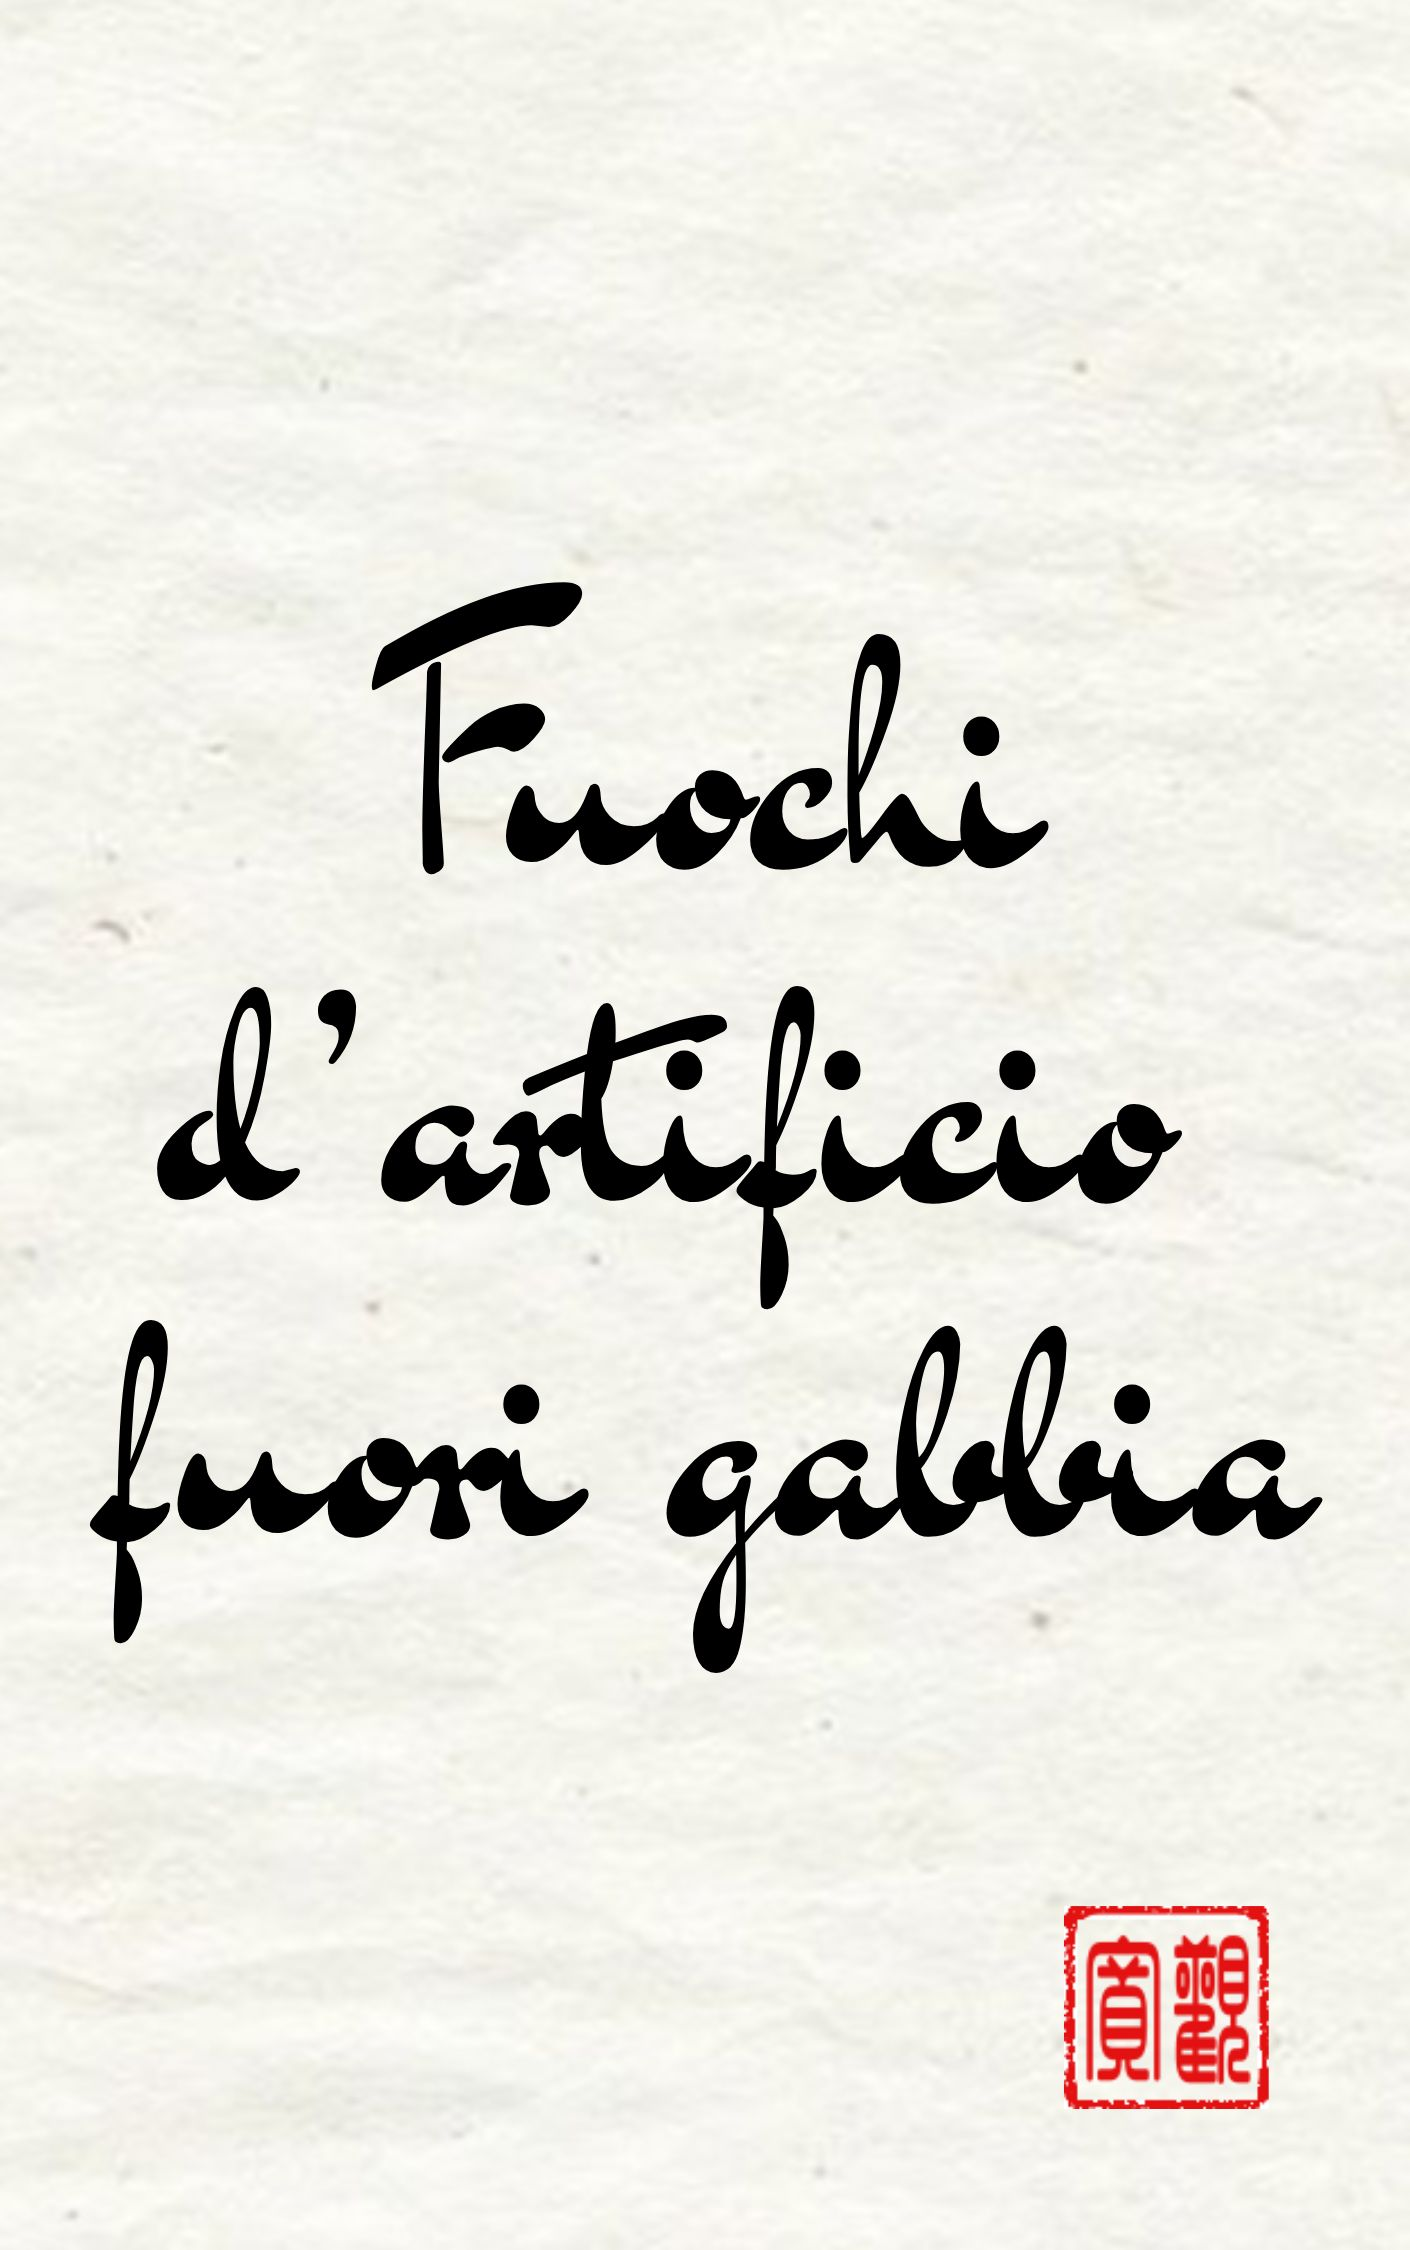
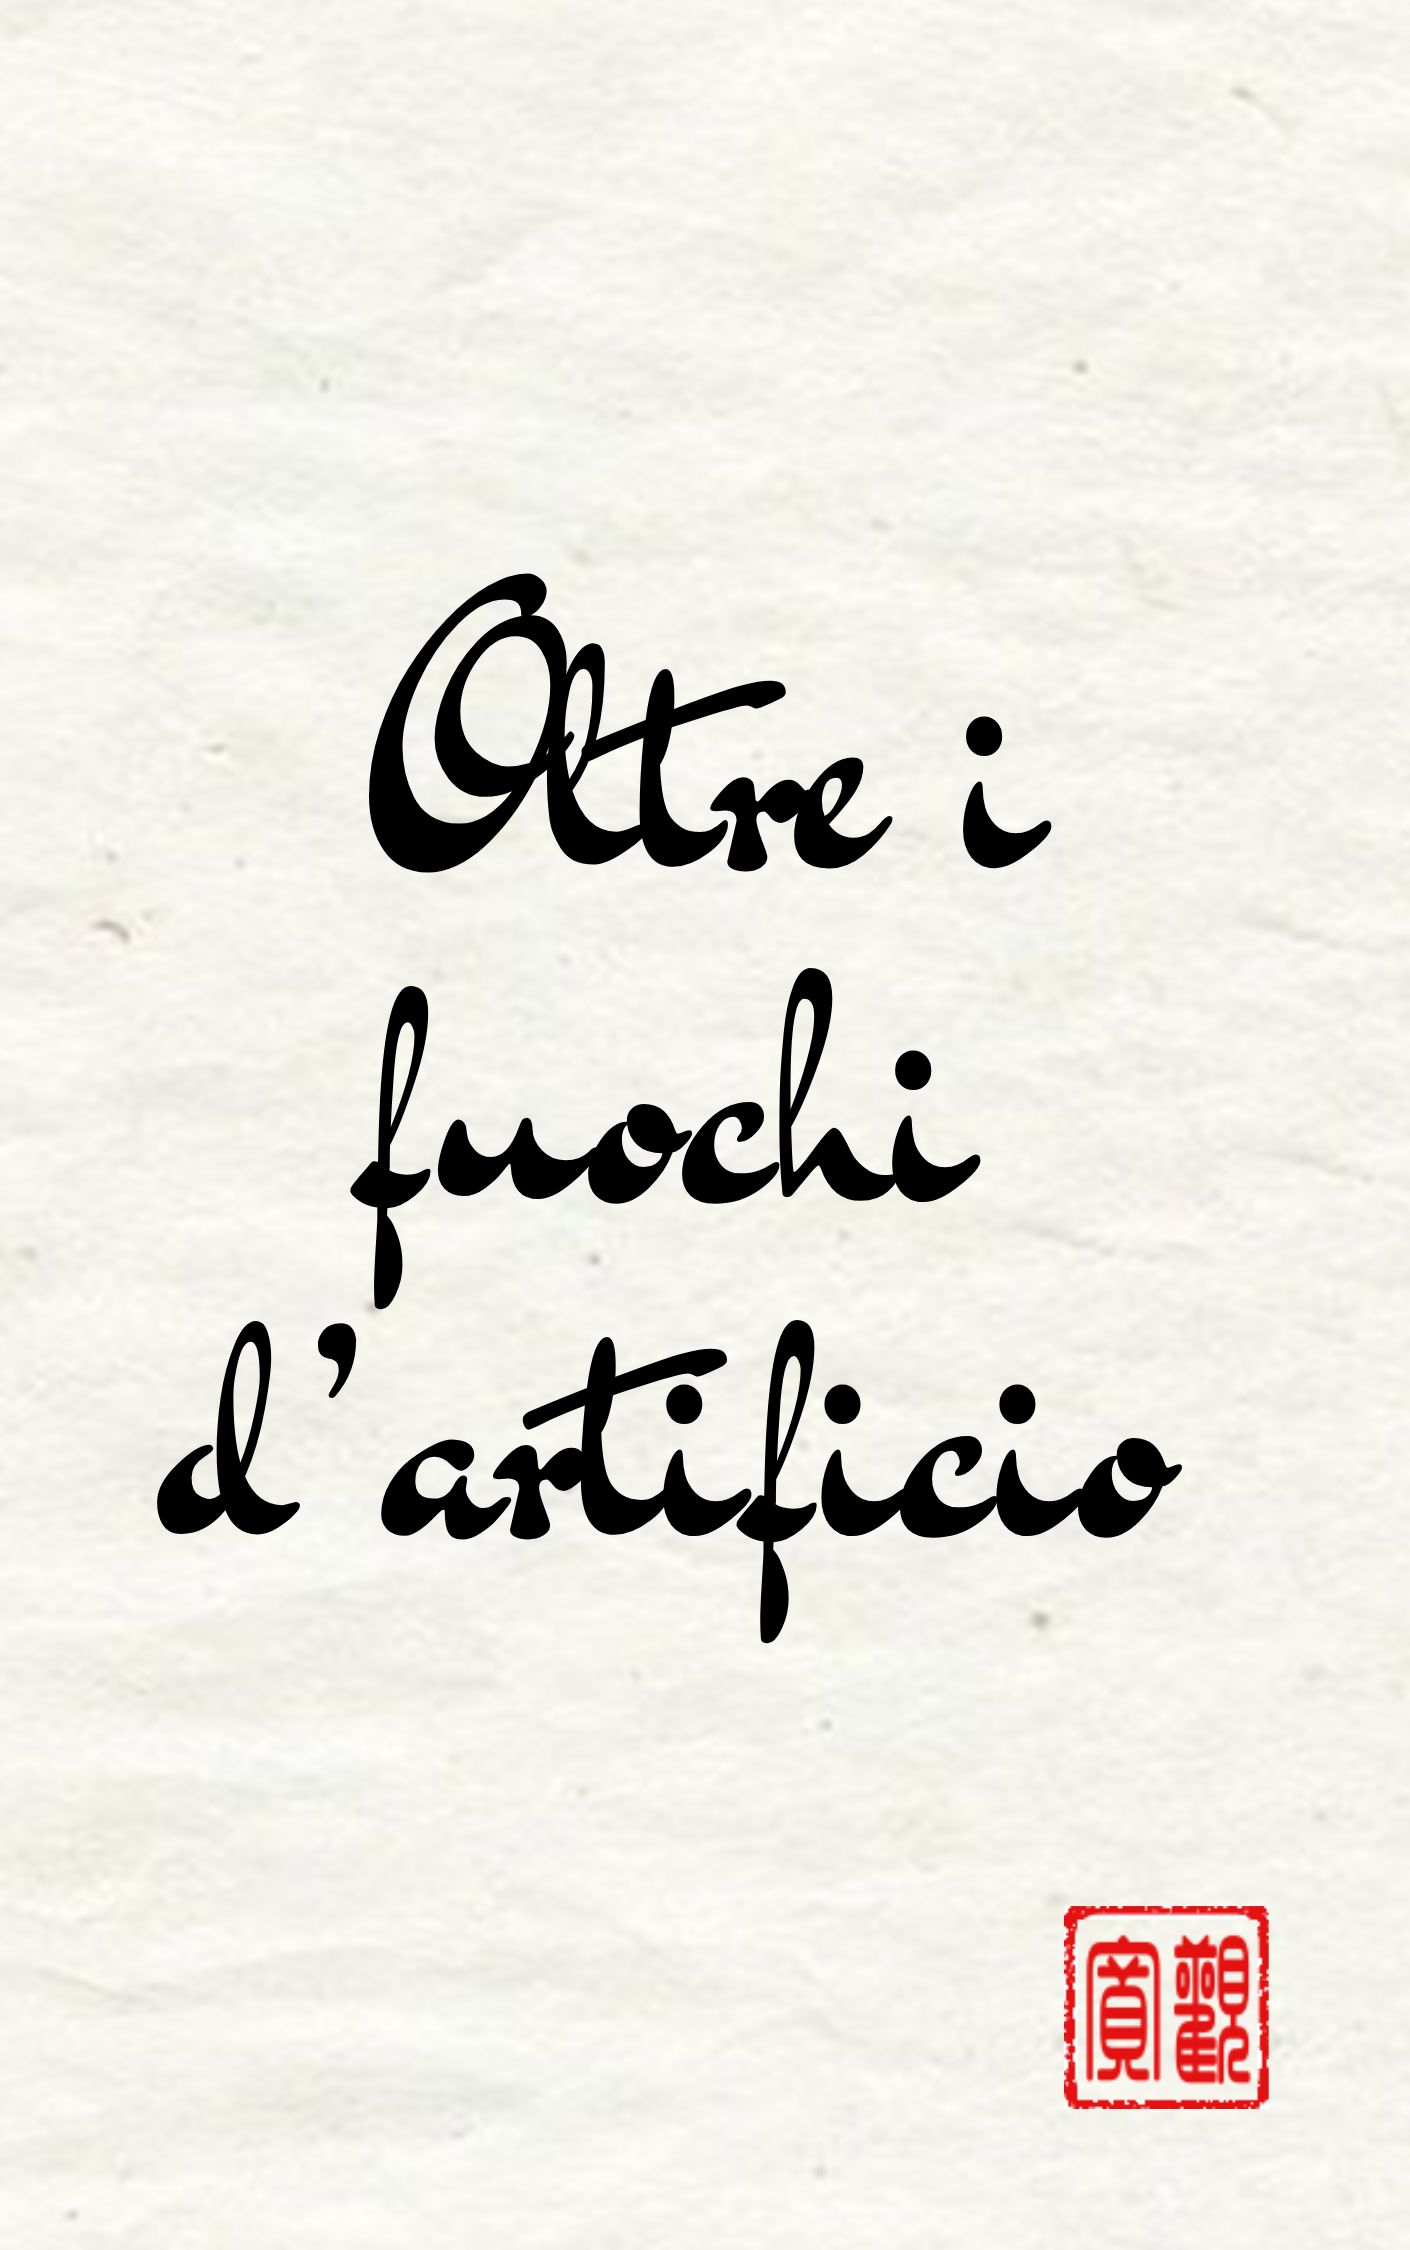
up

Changed region(s): [[0.0624, 0.4356, 0.9362, 0.7467], [0.2496, 0.2489, 0.6865, 0.4044]]

diff --git a/newsl/newsletter6.html b/newsl/newsletter6.html
@@ -1,0 +1,207 @@
+<!DOCTYPE html>
+<html>
+<head>
+  <meta charset="UTF-8">
+  <title>La Tazza Vuota</title>
+  <link href="https://fonts.googleapis.com/css2?family=Roboto:wght@400;700&display=swap" rel="stylesheet">
+</head>
+<body style="margin:0; padding:0; background-color:#f4f1e3 !important; font-family:'Roboto', Helvetica, Arial, sans-serif;">
+
+  <!-- Container principale -->
+  <table align="center" width="98%" cellpadding="0" cellspacing="0" border="0" style="margin-bottom:20px; max-width:600px; background-color:#ffffff !important; border-radius:10px; box-shadow:0 2px 12px rgba(0,0,0,0.1); font-family:'Roboto', Helvetica, Arial, sans-serif;">
+
+    <!-- Immagine intestazione -->
+    <tr>
+      <td>
+        <img src="https://raw.githubusercontent.com/chantallengua/repository/master/tazzavuota2.png"
+             alt="Intestazione La Tazza Vuota" 
+             width="100%" style="display:block; border-radius:10px 10px 0 0; height:auto;">
+      </td>
+    </tr>
+
+    <!-- Titolo -->
+    <tr>
+      <td align="center" style="padding:30px 20px 20px 20px; font-size:30px; color:#e63d3c; font-weight:700; font-family:'Roboto', Helvetica, Arial, sans-serif;">
+        Il mondo del tempo sospeso
+      </td>
+    </tr>
+
+    <!-- Riga sottile -->
+    <tr>
+      <td style="padding:10px 20px 10px 20px;">
+        <table width="100%" cellpadding="0" cellspacing="0" border="0">
+          <tr>
+            <td style="border-bottom:1px solid #e0d8c8; line-height:1px;">&nbsp;</td>
+          </tr>
+        </table>
+      </td>
+    </tr>
+	
+    <!-- Numero newsletter e data -->
+<tr>
+  <td style="padding:0 20px 30px 20px; font-size:14px; color:#999; font-style:italic;">
+    <table width="100%" cellpadding="0" cellspacing="0" border="0">
+      <tr>
+        <td align="left" style="font-size:14px; color:#999; font-style:italic;">
+          La Tazza Vuota #6
+        </td>
+        <td align="right" style="font-size:14px; color:#999; font-style:italic;">
+          08 Gennaio 2026
+        </td>
+      </tr>
+    </table>
+  </td>
+</tr>
+
+    <!-- Corpo della mail -->
+<tr>
+  <td style="padding:0px 20px 5px 20px; font-size:16px; color:#333; text-align:left; line-height:1.6; font-family:'Roboto', Helvetica, Arial, sans-serif;">
+    <em>«Gennaio. Dopo il rumore delle feste, delle promesse, dei buoni propositi scritti e già dimenticati, resta una cosa sola: darsi da fare.»</em><br>Si apre così una mail che ho ricevuto oggi, e mi piacerebbe parlarne, di gennaio e del <strong>clima che lo circonda: un tempo carico di aspettative, di azione, ripartenza immediata e produttività</strong>.
+  </td>
+</tr>
+
+<tr>
+  <td align="center" id="box" style="padding:16px 50px; background-color:#de5f5a; color:#fff; border-radius:8px; font-size:16px; line-height:1.6; text-align:center; max-width:400px; margin:25px auto 20px auto; display:block; font-family:'Roboto', Helvetica, Arial, sans-serif;">
+    Gennaio non è tempo di inizi.
+  </td>
+</tr>
+
+<tr>
+  <td style="padding:0px 20px 5px 20px; font-size:16px; color:#333; text-align:left; line-height:1.6; font-family:'Roboto', Helvetica, Arial, sans-serif;">
+    <strong>Il nuovo anno nel cuore dell'inverno invece che nell'equinozio di primavera</strong> - tempo in cui la natura si risveglia - <strong>non è una collocazione in ascolto dei ritmi biologici</strong>, ma il risultato di un compromesso a lungo contestato, nato da esigenze astronomiche, politiche e religiose.
+  </td>
+</tr>
+
+<tr>
+  <td style="padding:0px 20px 5px 20px; font-size:16px; color:#333; text-align:left; line-height:1.6; font-family:'Roboto', Helvetica, Arial, sans-serif;">
+    Il primo calendario romano iniziava a marzo, dedicato a Marte, e proseguiva con <em>Aprilis, Maius, Junius</em>. I sei mesi successivi erano semplicemente numerati, fino a <em>December</em>. In totale, 304 giorni. <strong>I circa 60 giorni invernali rimasti non avevano nome. Erano un tempo sospeso, fuori dal computo, dedicato ai morti e al non-agire.</strong>
+  </td>
+</tr>
+
+<tr>
+  <td style="padding:0px 20px 5px 20px; font-size:16px; color:#333; text-align:left; line-height:1.6; font-family:'Roboto', Helvetica, Arial, sans-serif;">
+    Fu Numa Pompilio ad aggiungere <em>Ianuarius</em> e <em>Februarius</em>, ma <strong>l'inizio dell’anno continuò a essere celebrato in primavera per secoli</strong>. Solo con la riforma di Cesare e Sosigene si arrivò a un calendario solare più preciso, migliorato ancora di più con il successivo gregoriano. Qui la Chiesa operò anche una progressiva sovrapposizione delle festività cristiane a quelle pagane preesistenti, come la nascita di Cristo sui <em>Saturnalia</em> (17-23 dicembre).
+  </td>
+</tr>
+
+<tr>
+  <td style="padding:0px 20px 5px 20px; font-size:16px; color:#333; text-align:left; line-height:1.6; font-family:'Roboto', Helvetica, Arial, sans-serif;">
+    <strong>In UK e colonie americane il nuovo anno si continuò a celebrare il 25 marzo fino al 1752</strong>, quando anche loro adottarono il calendario gregoriano</em>.
+  </td>
+</tr>
+
+<tr>
+  <td align="center" id="box" style="padding:16px 50px; background-color:#de5f5a; color:#fff; border-radius:8px; font-size:16px; line-height:1.6; text-align:center; max-width:400px; margin:25px auto 20px auto; display:block; font-family:'Roboto', Helvetica, Arial, sans-serif;">
+    L’idea che gennaio sia il momento giusto per ripartire, migliorarsi, fare di più, fare meglio, non è un dato naturale, ma una costruzione culturale.
+  </td>
+</tr>
+
+<tr>
+  <td style="padding:0px 20px 5px 20px; font-size:16px; color:#333; text-align:left; line-height:1.6; font-family:'Roboto', Helvetica, Arial, sans-serif;">
+    Se gennaio non è, storicamente e simbolicamente, un tempo di inizi, allora può diventare qualcos’altro: <strong> un tempo di rallentamento, di assestamento, di ritorno a se stessi dopo l’eccesso di stimoli delle settimane precedenti.</strong>
+  </td>
+</tr>
+
+<tr>
+  <td style="padding:0px 20px 5px 20px; font-size:16px; color:#333; text-align:left; line-height:1.6; font-family:'Roboto', Helvetica, Arial, sans-serif;">
+    Liberi dal <strong>condizionamento forzato di un giudice interiore</strong> (citato <a style="color: #de5f5a;" href="https://chantallengua.github.io/io/newsletter.html" target="_blank">nella scorsa newsletter, #5</a>), che ci può far cominciare nuove abitudini sulla spinta del nuovo anno, per poi farle naufragare in frustrazione e abbandono, <strong>possiamo chiederci invece che cosa, di noi, ha bisogno di riposare ancora</strong>, e come.
+  </td>
+</tr>
+
+<tr>
+  <td style="padding:0px 20px 5px 20px; font-size:16px; color:#333; text-align:left; line-height:1.6; font-family:'Roboto', Helvetica, Arial, sans-serif;">
+    Ricordo a tal proposito quando, in un ritiro, parlai con la maestra, una monaca Chan (Buddhismo cinese). Nel raccontarle i "raggiungimenti" ottenuti nel corso di una sessione di meditazione e i vari fuochi d'artificio energetici che avevo percepito, <strong>la sua risposta è stata che essi non erano lo scopo, e che non mi stavo rilassando abbastanza, ma ero troppo tesa verso un risultato</strong>.
+  </td>
+</tr>
+
+<tr>
+  <td align="center" id="box" style="padding:16px 50px; background-color:#de5f5a; color:#fff; border-radius:8px; font-size:16px; line-height:1.6; text-align:center; max-width:400px; margin:25px auto 20px auto; display:block; font-family:'Roboto', Helvetica, Arial, sans-serif;">
+    Cercare di ottenere qualcosa nella meditazione è come cercare di calmare i cerchi concentrici che si formano sulla superficie di un lago, usando le mani.
+  </td>
+</tr>
+
+<tr>
+  <td style="padding:0px 20px 5px 20px; font-size:16px; color:#333; text-align:left; line-height:1.6; font-family:'Roboto', Helvetica, Arial, sans-serif;">
+    Nell'ottica occidentale, siamo in uno stato A e vogliamo andare in uno stato B, e se non ci rimbocchiamo le maniche non otteniamo nulla. <strong>Nell'ottica Chan è il contrario: siamo in uno stato A e non c'è uno stato B, che sarebbe solo un ulteriore costrutto mentale</strong>.
+  </td>
+</tr>
+
+<tr>
+  <td style="padding:0px 20px 5px 20px; font-size:16px; color:#333; text-align:left; line-height:1.6; font-family:'Roboto', Helvetica, Arial, sans-serif;">
+    <strong>È uno sciogliersi, una decostruzione di tutto quello che abbiamo di limitante</strong>: schemi mentali, pregiudizi, preconcetti, paure, automatismi, reazioni istintive, ruoli, narrazioni interiori obsolete.
+  </td>
+</tr>
+
+<tr>
+  <td align="center" id="box" style="padding:16px 50px; background-color:#de5f5a; color:#fff; border-radius:8px; font-size:16px; line-height:1.6; text-align:center; max-width:400px; margin:25px auto 20px auto; display:block; font-family:'Roboto', Helvetica, Arial, sans-serif;">
+    Nel Buddhismo Chan, l'illuminazione è la condizione naturale di ciascuno di noi; è quello che rimane dopo che i nostri schemi mentali, ormai inutili, sono evaporati.
+  </td>
+</tr>
+
+<tr>
+  <td style="padding:0px 20px 5px 20px; font-size:16px; color:#333; text-align:left; line-height:1.6; font-family:'Roboto', Helvetica, Arial, sans-serif;">
+    Quindi, in questo gennaio, <strong>possiamo dirottare la nostra mente verso un tipo diverso di raggiungimento</strong>: invece dello spingerci in avanti con un combustibile che la natura non ci sta dando (in questo momento in cui tanti mammiferi sono in letargo e gli alberi sono in riposo vegetativo), <strong>possiamo raccoglierci e alimentare, con dolcezza, lo spogliarsi di ciò che non serve più al nostro presente</strong>.
+  </td>
+</tr>
+
+<tr>
+  <td style="padding:0px 20px 5px 20px; font-size:16px; color:#333; text-align:left; line-height:1.6; font-family:'Roboto', Helvetica, Arial, sans-serif;">
+    Ben vengano allora fioretti e buoni propositi, che prendono origine da un gennaio come soglia consapevole, invece che da prassi sociale. Come dice James Clear in <em><a href="https://jamesclear.com/atomic-habits" style="color:#de5f5a;" target="_blank">Atomic habits</a></em>, <strong>sono le piccole abitudini, se ripetute con costanza, a portare a risultati notevoli</strong>, più che gli intenti che capitano una volta all'anno.
+  </td>
+</tr>
+
+<tr>
+  <td style="padding:0px 20px 5px 20px; font-size:16px; color:#333; text-align:left; line-height:1.6; font-family:'Roboto', Helvetica, Arial, sans-serif;">
+    Provate allora ogni sera a dedicare qualche minuto del vostro tempo alla meditazione. Non quella rigida e obbligata sul cuscino canonico, se non lo desiderate; <strong>è sufficiente portare attenzione a ciò che state facendo</strong>, che sia la cena, i piatti da lavare o la doccia. <strong>Qualcosa che vi riporti nel presente, nel corpo e nello stato d’animo, lasciandoli essere così come sono, senza analizzare nulla, senza aggiungere nulla.</strong>
+  </td>
+</tr>
+
+<tr>
+  <td style="padding:0px 20px 5px 20px; font-size:16px; color:#333; text-align:left; line-height:1.6; font-family:'Roboto', Helvetica, Arial, sans-serif;">
+
+E forse, proprio così, qualcosa comincia davvero.
+  </td>
+</tr>
+
+	    <!-- Fine corpo della mail -->
+		
+    <tr>
+      <td style="padding:30px 20px 10px 20px;">
+        <table width="100%" cellpadding="0" cellspacing="0" border="0">
+          <tr>
+            <td style="border-bottom:1px solid #e0d8c8; line-height:1px;">&nbsp;</td>
+          </tr>
+        </table>
+      </td>
+    </tr>
+	
+	
+<tr>
+  <td style="padding:20px 30px 10px 20px; font-size:15px; color:#999; font-style:italic; text-align:center; line-height:1.6; font-family:'Roboto', Helvetica, Arial, sans-serif;">
+    Grazie per la lettura. <br>Ogni risposta sarà letta con attenzione e mettā (gentilezza amorevole).<br><br>Chantal Lengua
+  </td>
+</tr>
+
+
+<tr>
+  <td style="padding:20px 20px 30px 20px;">
+    <table width="100%" cellpadding="0" cellspacing="0" border="0">
+      <tr>
+        <td style="border-bottom:1px solid #e0d8c8; line-height:1px;">&nbsp;</td>
+      </tr>
+    </table>
+  </td>
+</tr>
+
+<tr>
+  <td id="ringraziamenti" style="padding:30px 20px; color:#fff; background-color:#de5f5a; font-size:13px; text-align:center; line-height:1.2; border-radius:0 0 10px 10px; font-family:'Roboto', Helvetica, Arial, sans-serif;">
+    Ricevi questa email perché ti sei iscritto alla newsletter di mindfulness <em>La Tazza Vuota</em>.<br>    
+    &rarr; &rarr; Trova le edizioni passate <a href="https://chantallengua.github.io/io/newsletter.html" style="color:#ffffff; text-decoration:underline; font-weight:bold;">sul mio sito</a></strong>, dove potrai <strong>invitare un amico a iscriversi</strong> 
+	<br>e/o leggere i miei racconti di narrativa. <br>
+      </td>
+    </tr>
+
+  </table>
+
+</body>
+</html>

diff --git a/newsletter.html b/newsletter.html
@@ -88,7 +88,7 @@
       </div>
       <div class="book-inside">
       </div>
-     <p class="pag">4/12/2025</p>
+     <p class="pag">#1</p>
      </a>
     </div> 
 	
@@ -101,7 +101,7 @@
   </div>
   <div class="book-inside">
   </div>
- <p class="pag">11/12/2025</p>
+ <p class="pag">#2</p>
  </a>
 </div>
 
@@ -116,7 +116,7 @@
   </div>
   <div class="book-inside">
   </div>
- <p class="pag">17/12/2025</p>
+ <p class="pag">#3</p>
 </a>
 </div>
 
@@ -129,33 +129,33 @@
   </div>
   <div class="book-inside">
   </div>
- <p class="pag">23/12/2025</p>
+ <p class="pag">#4</p>
  </a>
 </div>
 
 </div>
 
 
-<!--
+
 <div class="container-fluid container-row">
 <div class="book">
 <a target="_blank"  href="newsl/newsletter5.html">
-  <div class="title"><p>Fuochi d'artificio fuori gabbia</p></div>
+  <div class="title"><p>Oltre i fuochi d'artificio</p></div>
   <div class="book-cover covern5">
     <div class="effect"></div>
     <div class="light"></div>
   </div>
   <div class="book-inside">
   </div>
- <p class="pag">30/12/2025</p>
+ <p class="pag">#5</p>
 </a> 
 </div>
 
 
 <div class="book">
-<a target="_blank"  href="racconti/busserai.html">
+<a target="_blank"  href="newsl/newsletter6.html">
   <div class="title">
-    <p>Busserai sul legno del mondo</p>
+    <p>Il mondo del tempo sospeso</p>
   </div>
   <div class="book-cover covern6">
     <div class="effect"></div>
@@ -163,10 +163,11 @@
   </div>
   <div class="book-inside">
   </div>
- <p class="pag">6 pag.</p>
+ <p class="pag">#6</p>
 </a>
 </div>
 
+<!--
 <div class="book">
 <a target="_blank"  href="racconti/incenso.html">
   <div class="title">

diff --git a/newsl/newsletter5.html b/newsl/newsletter5.html
@@ -22,7 +22,7 @@
     <!-- Titolo -->
     <tr>
       <td align="center" style="padding:30px 20px 20px 20px; font-size:30px; color:#e63d3c; font-weight:700; font-family:'Roboto', Helvetica, Arial, sans-serif;">
-        Fuochi d'artificio fuori gabbia
+        Oltre i fuochi d'artificio
       </td>
     </tr>
 

diff --git a/style.css b/style.css
@@ -831,7 +831,7 @@ footer input[type="image"] {
 }
 
 .covern5 {
-  background-image: url('img/newsl/n5_resized.jpg');
+  background-image: url('img/newsl/n5.jpg');
 }
 
 .covern6 {
